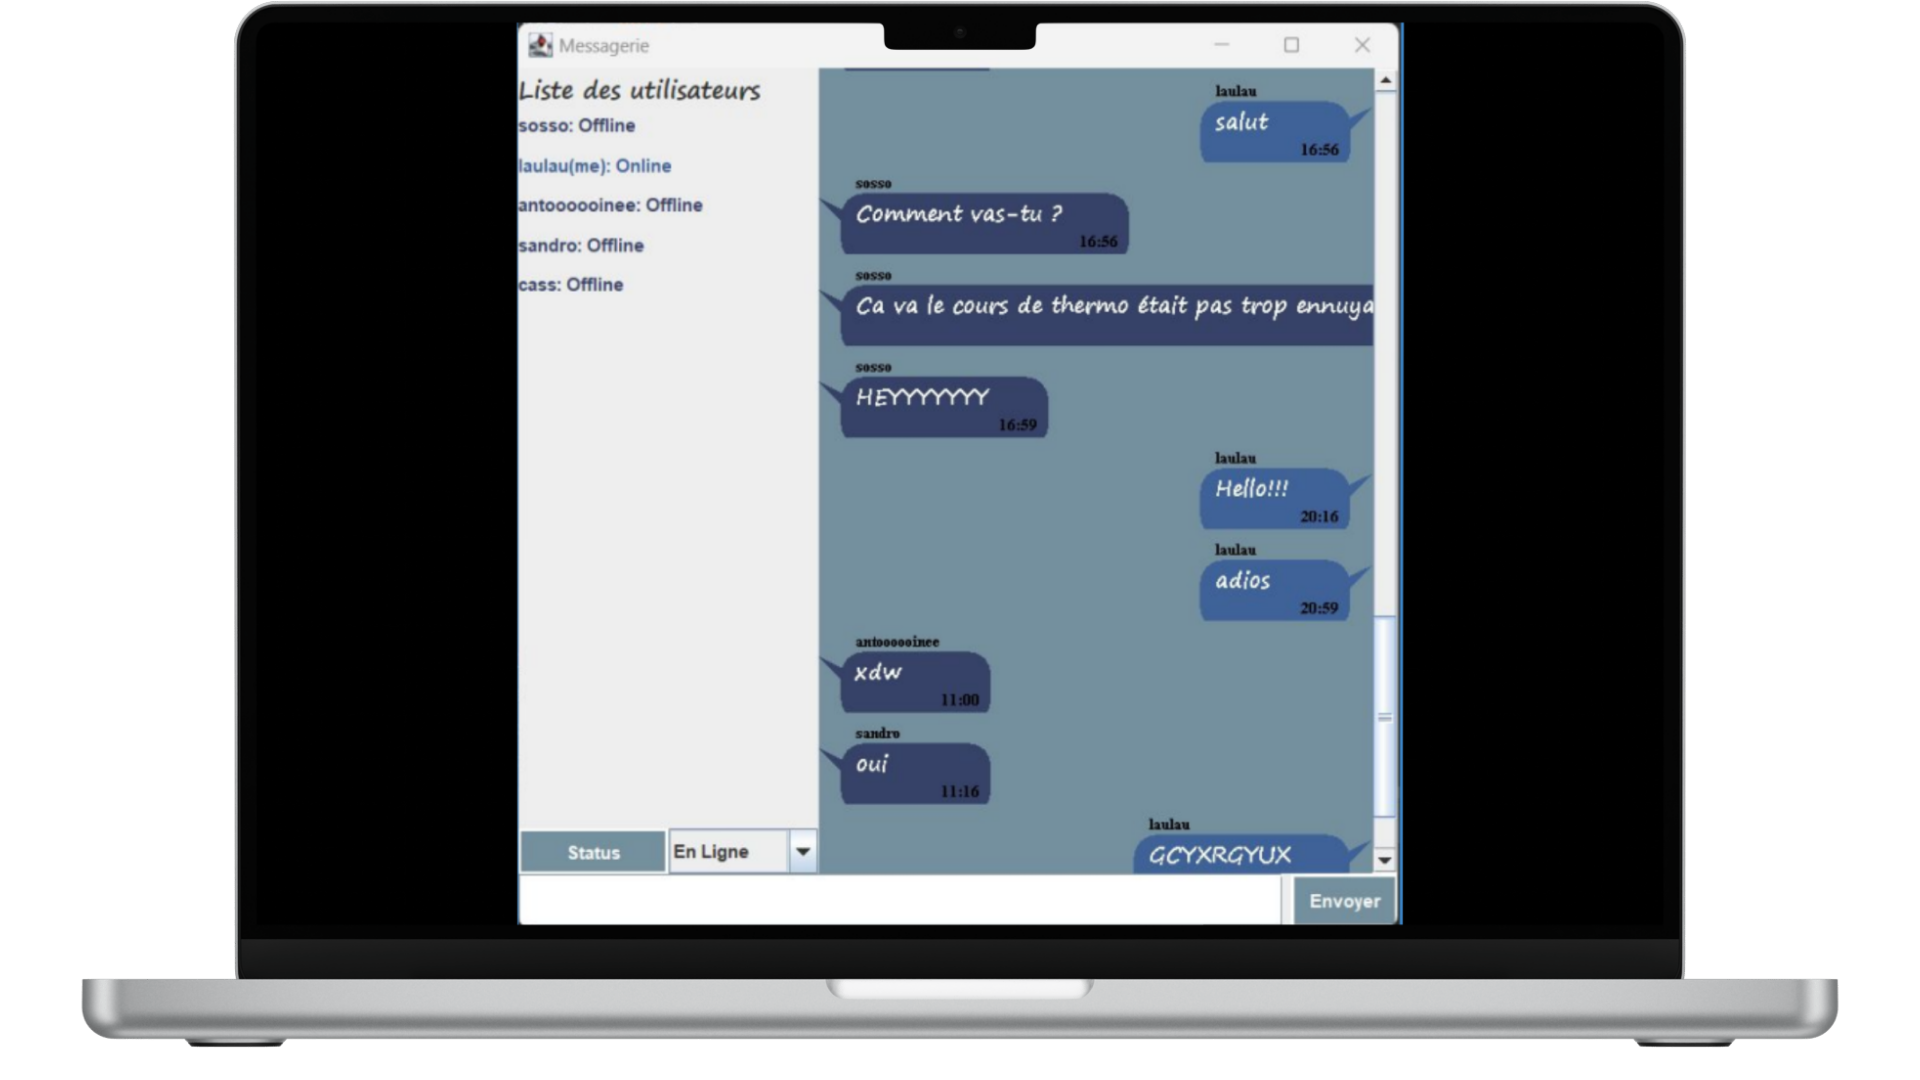
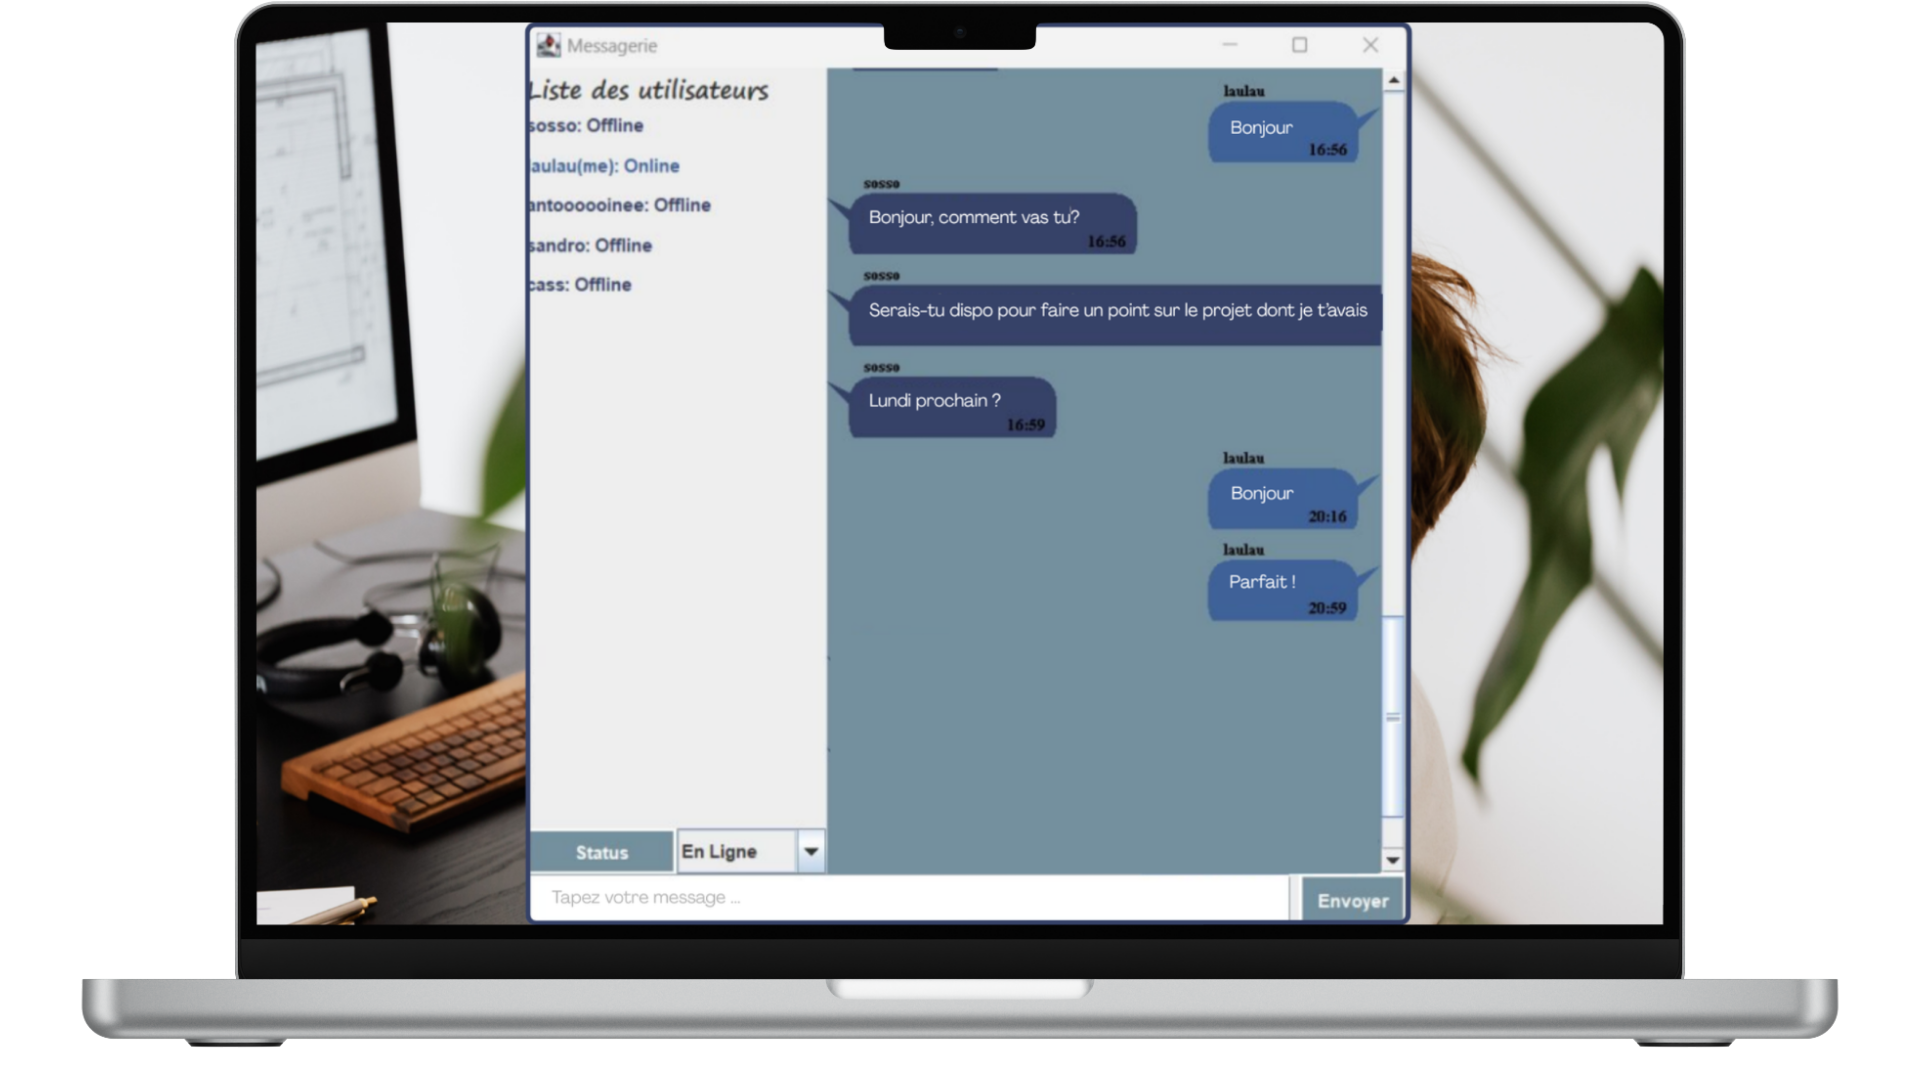
fix bug

Changed region(s): [[0.125, 0.0, 0.875, 0.8556]]

diff --git a/src/components/Top.vue b/src/components/Top.vue
@@ -37,7 +37,7 @@ const theme = ref(localStorage.getItem('theme') || 'light')
         </div>
       </div>
       <div data-kinesistransformer-element data-ks-transform="translate" data-ks-strength="23">
-        <div style="margin-left: 600px">
+        <div style="margin-left: 40%">
           <img class="fleur" src="../assets/images/flore.png" alt="icon" />
         </div>
       </div>
@@ -52,7 +52,7 @@ const theme = ref(localStorage.getItem('theme') || 'light')
         <h2 class="job">Développeuse Full-Stack</h2>
       </div>
       <div data-kinesistransformer-element data-ks-transform="translate" data-ks-strength="23">
-        <div style="margin-left: 1000px">
+        <div style="margin-left: 80%">
           <img class="fleur" src="../assets/images/flore.png" alt="icon" />
         </div>
       </div>
@@ -62,7 +62,7 @@ const theme = ref(localStorage.getItem('theme') || 'light')
         </div>
       </div>
       <div data-kinesistransformer-element data-ks-transform="translate" data-ks-strength="-25">
-        <div style="margin-left: 600px">
+        <div style="margin-left: 40%">
           <img class="fleur" src="../assets/images/flore.png" alt="icon" />
         </div>
       </div>

diff --git a/src/staticData/projectData.ts b/src/staticData/projectData.ts
@@ -6,12 +6,14 @@ import imageCapteur from '@/assets/images/capteur.png'
 import videoCapteur from '@/assets/videos/capteur.mp4'
 import imageHelico from '@/assets/images/helico.png'
 import videoHelico from '@/assets/videos/helico.mp4'
-import fileHelico from '@/assets/project/Hélicoptère.f3d'
 import imageEcam from '@/assets/images/ECAM.png'
 import imageFilm from '@/assets/images/film.png'
 import videoFilm from '@/assets/videos/film.mp4'
 import imageLicorne from '@/assets/images/licorne.png'
 import imageSLF from '@/assets/images/slf.png'
+
+const fileHelico = '/Hélicoptère.f3d'
+
 
 export const projectData: projectType[] = [
   {

diff --git a/src/components/Modal.vue b/src/components/Modal.vue
@@ -80,7 +80,7 @@ function downloadFile(path : string) {
   padding: 20px;
   border-radius: 15px;
   max-width: 90%; /* plus flexible sur petits écrans */
-  max-height: 60vh; /* limite la hauteur */
+  height: 60vh; /* limite la hauteur */
   overflow-y: auto; /* ajoute un scroll vertical si le contenu dépasse */
   box-sizing: border-box; /* évite le dépassement dû au padding */
   animation: fadeIn 0.3s ease;

diff --git a/src/components/NavigationBar.vue b/src/components/NavigationBar.vue
@@ -120,4 +120,5 @@ nav {
 svg {
   color: var(--text-color);
 }
+
 </style>
